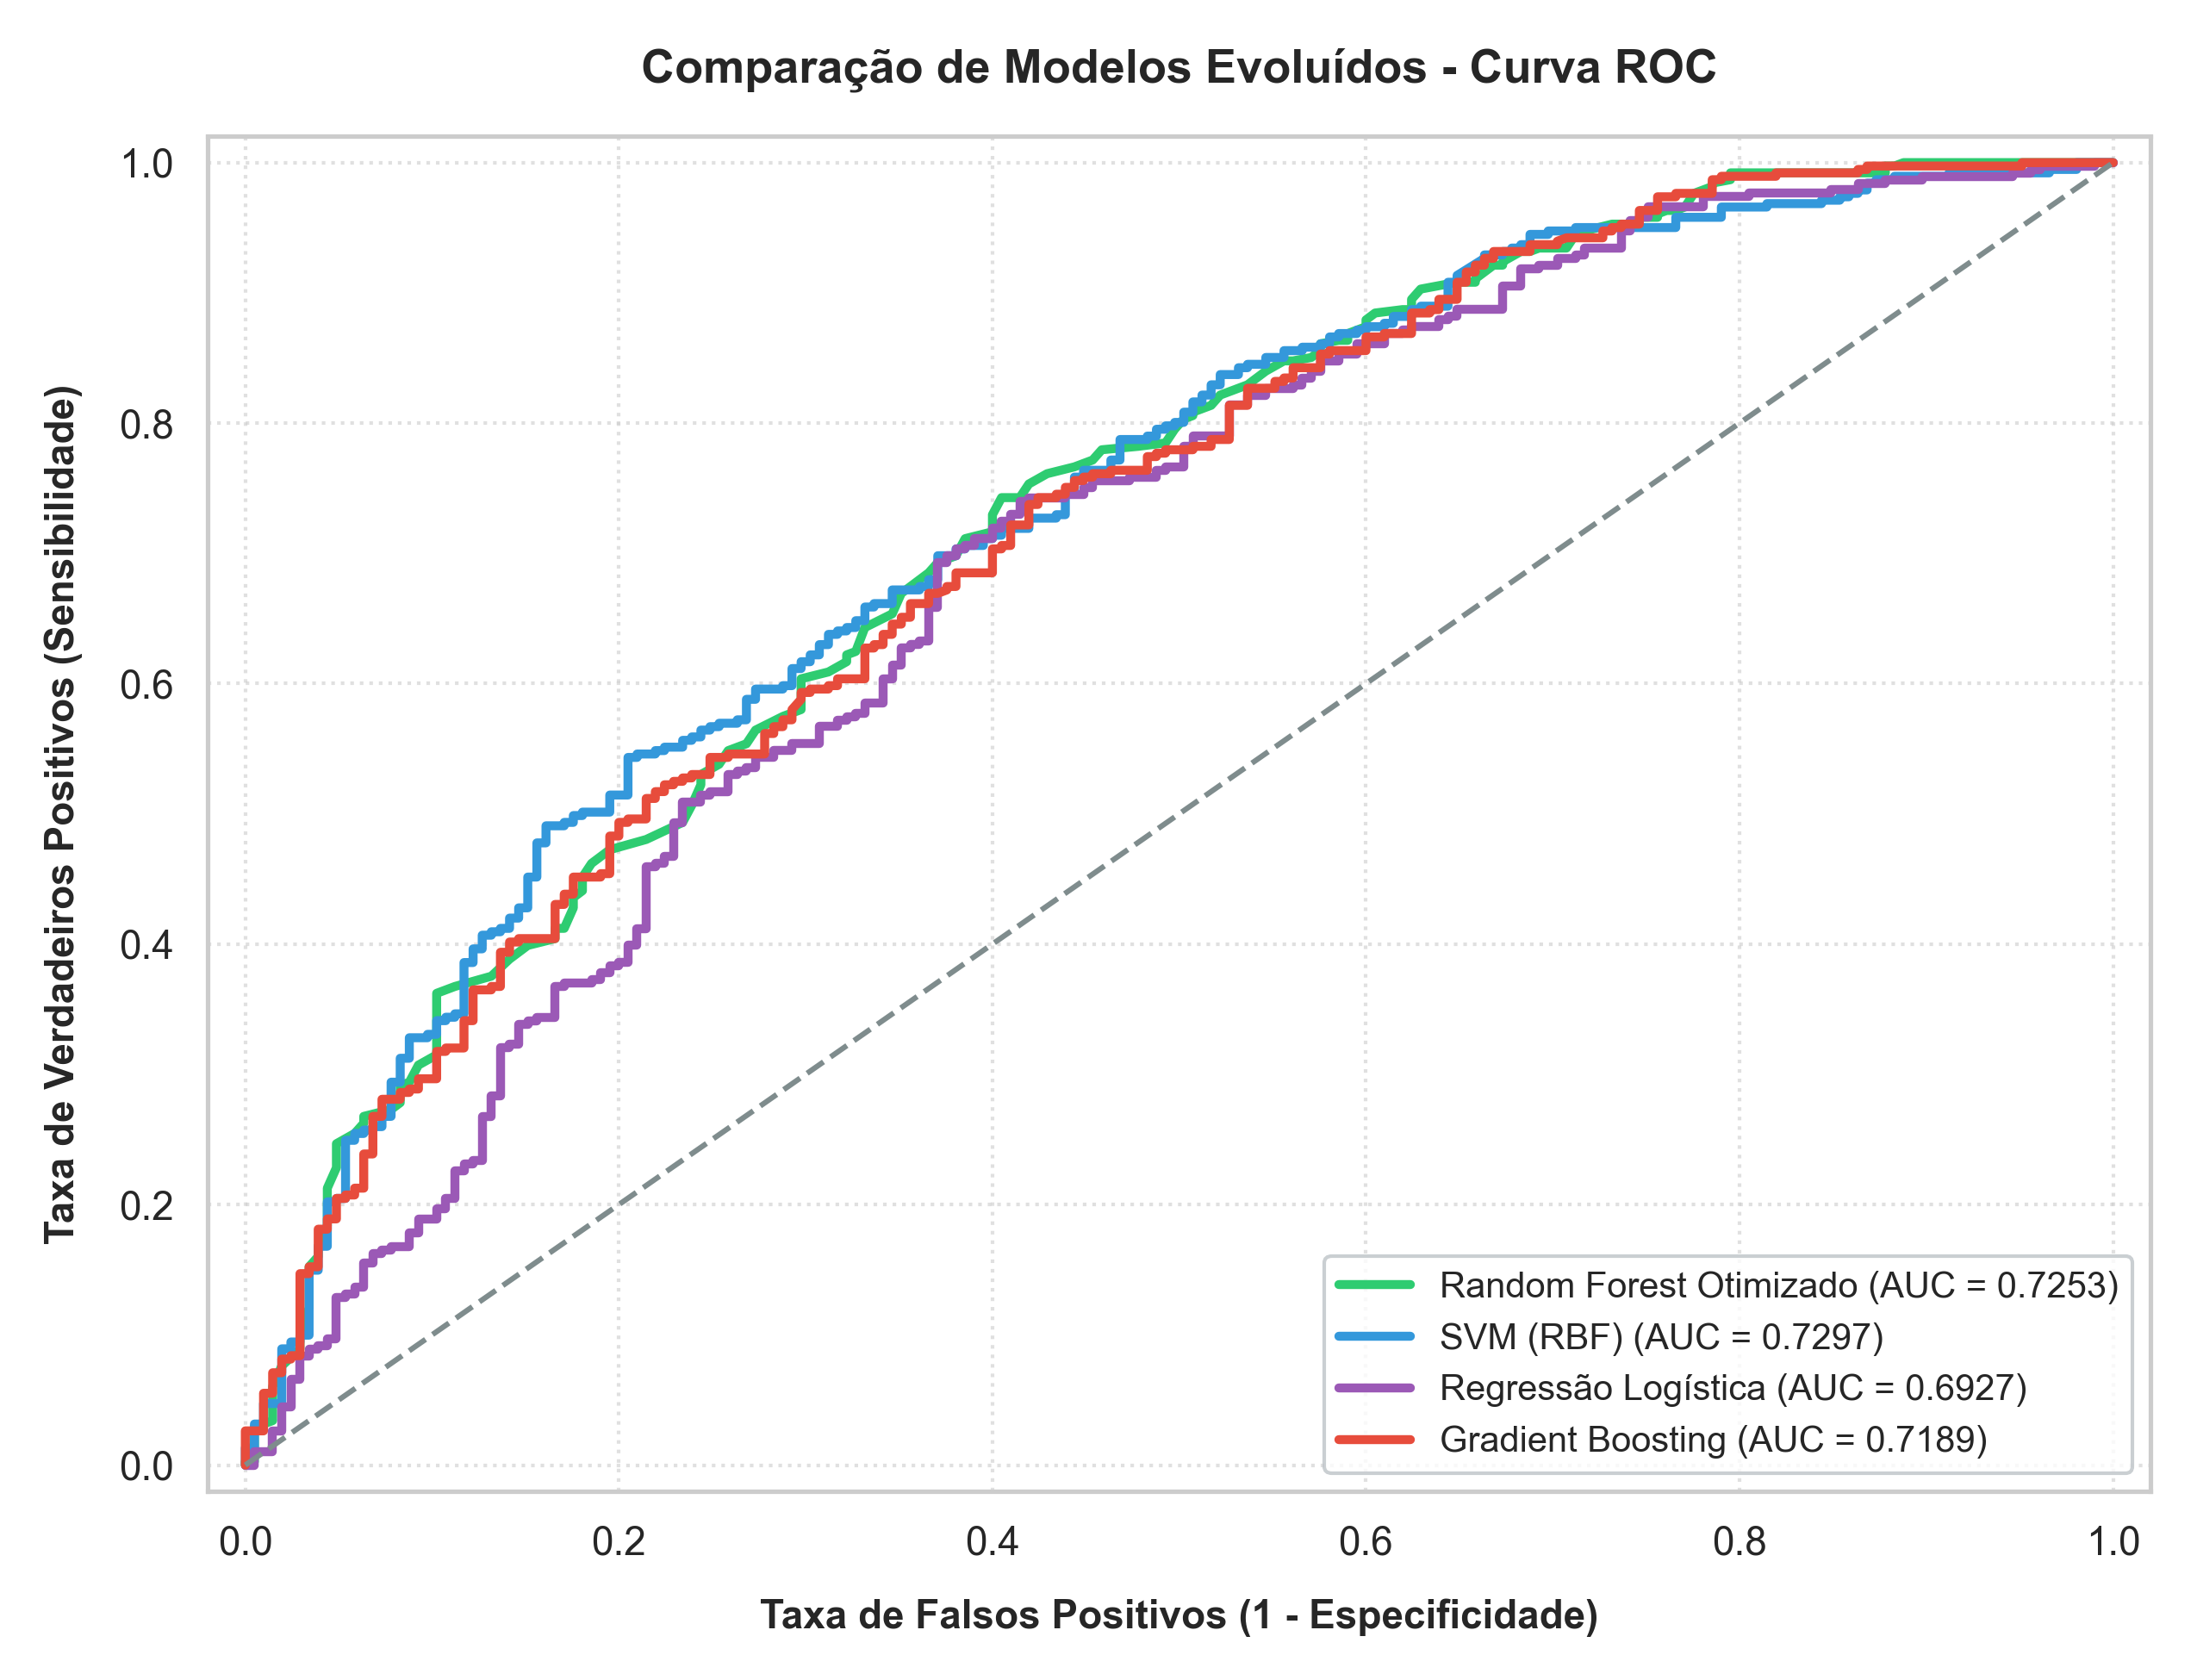
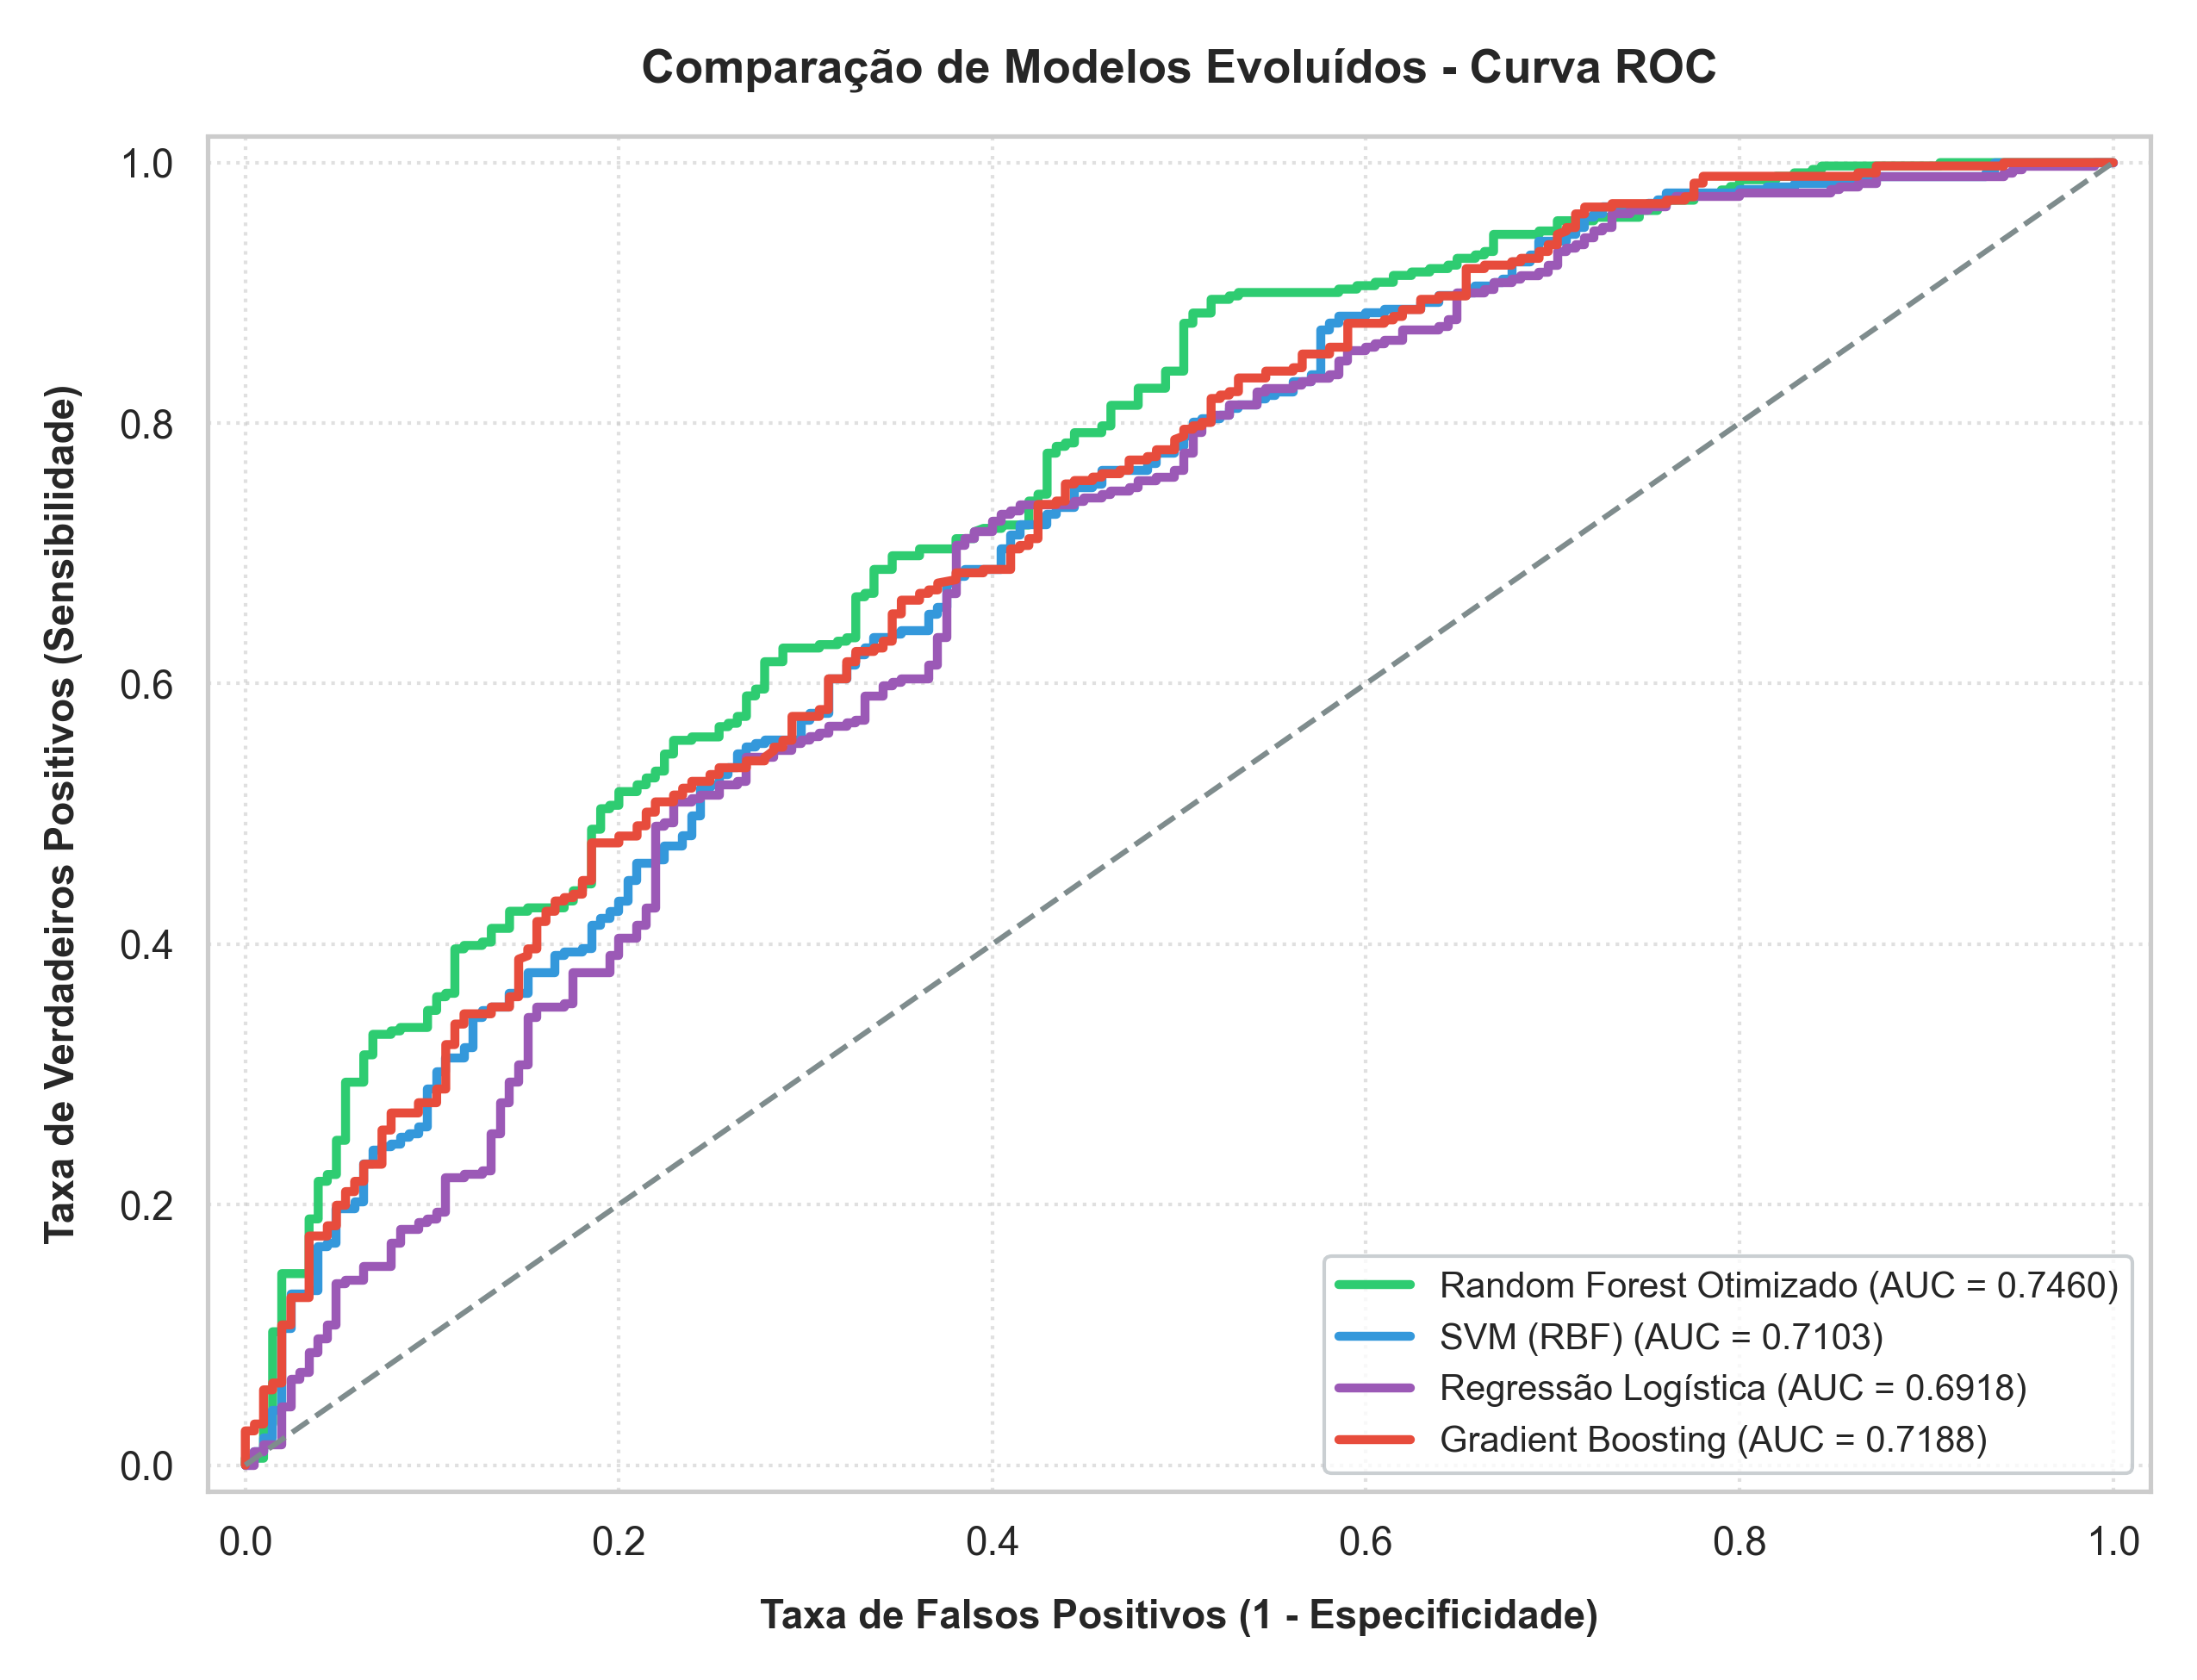
ajuste 1

diff --git a/modelo final usando comportamento.py b/modelo final usando comportamento.py
@@ -1,139 +1,3 @@
-
-# import os
-# import pandas as pd
-# import numpy as np
-# import matplotlib.pyplot as plt
-# import seaborn as sns
-# import joblib
-
-# from sklearn.model_selection import train_test_split
-# from sklearn.preprocessing import StandardScaler
-# from sklearn.metrics import (
-#     accuracy_score, classification_report, roc_curve, auc, 
-#     confusion_matrix, ConfusionMatrixDisplay, f1_score
-# )
-
-# from sklearn.ensemble import RandomForestClassifier, GradientBoostingClassifier
-# from sklearn.svm import SVC
-# from sklearn.linear_model import LogisticRegression
-
-# # =====================================================
-# # 1. CARREGAMENTO E ENGENHARIA DE ATRIBUTOS
-# # =====================================================
-# ARQUIVO_CSV = "dataset_radiomica_segmentado_ia_unico.csv"
-
-# print("🔄 Carregando dataset e aplicando Engenharia de Atributos...")
-# df = pd.read_csv(ARQUIVO_CSV)
-
-# # 🌟 ENGENHARIA DE ATRIBUTOS: Criando o indicador de "Calcificação Relativa ao Tamanho"
-# # Como o volume real foi dropado, estimamos a "Massa Geométrica da IA" usando a variação 
-# # absoluta de erro combinada ao volume do GT, ou criamos um proxy aproximado baseado nas texturas.
-# # Usaremos o Volume Consolidado antes de dropar a coluna para gerar o recurso inteligente da IA:
-# if 'Volume_Ideal_GT_Consolidado_mm3' in df.columns:
-#     # Evita divisão por zero adicionando um epsilon estável (1e-5)
-#     df['Indice_Calcificacao_Por_Tamanho'] = df['Proporcao_Calcificacao_IA'] / (df['Volume_Ideal_GT_Consolidado_mm3'] + 1e-5)
-# else:
-#     # Proxy alternativo caso use apenas dados puros de intensidade da IA
-#     df['Indice_Calcificacao_Por_Tamanho'] = df['Proporcao_Calcificacao_IA'] / (df['HU_Std_IA'] + 1e-5)
-
-# # 2. LIMPEZA DE COLUNAS (Evitando vazamento de dados do Ground Truth)
-# colunas_vazamento = [
-#     'ID_Nodulo', 'ID_Nodulo_Unico',
-#     'Volume_Ideal_GT_mm3', 'Volume_Ideal_GT_Consolidado_mm3',
-#     'Diferenca_Absoluta_Volume_mm3', 
-#     'Dice_Score', 'IoU_Score'
-# ]
-# colunas_remover = [col for col in colunas_vazamento if col in df.columns]
-
-# # Separando Atributos (X) e Alvo (y)
-# # Mantemos nossa nova coluna 'Indice_Calcificacao_Por_Tamanho' dentro de X!
-# X = df.drop(columns=colunas_remover + ['Malignidade_Real_Target', 'Classe'], errors='ignore')
-# y = df['Malignidade_Real_Target']
-
-# print(f"-> Total de instâncias únicas: {len(df)}")
-# print(f"-> Novo atributo adicionado: 'Indice_Calcificacao_Por_Tamanho'")
-# print(f"-> Total de atributos preditores atuais: {X.shape[1]}")
-
-# # Trata nulos usando a mediana
-# X = X.fillna(X.median())
-
-# # =====================================================
-# # 3. VALIDAÇÃO MATEMÁTICA DA SUA NOVA HIPÓTESE
-# # =====================================================
-# print("\n💡 AVALIAÇÃO DA SUA HIPÓTESE DA CALCIFICAÇÃO RELATIVA:")
-# mediana_novo_indicador = df['Indice_Calcificacao_Por_Tamanho'].median()
-
-# chance_benigno_geral = (df['Malignidade_Real_Target'] == 0).mean()
-# # Filtra os nódulos com alto índice de calcificação em relação ao tamanho
-# sub_calcificados_pequenos = df[df['Indice_Calcificacao_Por_Tamanho'] > mediana_novo_indicador]
-# chance_benigno_hipotese = (sub_calcificados_pequenos['Malignidade_Real_Target'] == 0).mean()
-
-# print(f"   - Chance de um nódulo qualquer do dataset ser BENIGNO: {chance_benigno_geral*100:.1f}%")
-# print(f"   - Se o nódulo tiver ALTA CALCIFICAÇÃO e MENOR TAMANHO, a chance de ser BENIGNO vai para: {chance_benigno_hipotese*100:.1f}%")
-
-# # Matriz de Correlação incluindo o novo recurso
-# colunas_analise = ['HU_Variance_IA', 'Proporcao_Calcificacao_IA', 'Indice_Calcificacao_Por_Tamanho', 'Haralick_Contraste']
-# colunas_presentes = [c for c in colunas_analise if c in X.columns]
-# matriz_corr = df[colunas_presentes + ['Malignidade_Real_Target']].corr(method='spearman')
-
-# plt.figure(figsize=(7, 5))
-# sns.heatmap(matriz_corr, annot=True, cmap='coolwarm', fmt=".2f", vmin=-1, vmax=1)
-# plt.title('Impacto do Novo Atributo Combinado no Target')
-# plt.tight_layout()
-# plt.show()
-
-# # =====================================================
-# # 4. DIVISÃO EM TREINO E TESTE + NORMALIZAÇÃO
-# # =====================================================
-# X_train, X_test, y_train, y_test = train_test_split(
-#     X, y, test_size=0.20, random_state=42, stratify=y
-# )
-
-# scaler = StandardScaler()
-# X_train_scaled = scaler.fit_transform(X_train)
-# X_test_scaled = scaler.transform(X_test)
-
-# # =====================================================
-# # 5. TREINAMENTO E VALIDAÇÃO DOS MODELOS RETREINADOS
-# # =====================================================
-# modelos = {
-#     "Random Forest": RandomForestClassifier(n_estimators=100, random_state=42),
-#     "SVM (RBF)": SVC(kernel="rbf", probability=True, random_state=42),
-#     "Regressão Logística": LogisticRegression(max_iter=1000, random_state=42),
-#     "Gradient Boosting": GradientBoostingClassifier(n_estimators=100, random_state=42)
-# }
-
-# resultados_metricas = {}
-# print("\n🚀 Retreinando modelos preditivos com o comportamento integrado...")
-# for nome, modelo in modelos.items():
-#     modelo.fit(X_train_scaled, y_train)
-#     y_pred = modelo.predict(X_test_scaled)
-#     y_prob = modelo.predict_proba(X_test_scaled)[:, 1]
-    
-#     acc = accuracy_score(y_test, y_pred)
-#     f1 = f1_score(y_test, y_pred)
-#     fpr, tpr, _ = roc_curve(y_test, y_prob)
-#     roc_auc = auc(fpr, tpr)
-    
-#     resultados_metricas[nome] = {"Acurácia": acc, "F1-Score": f1, "AUC": roc_auc}
-
-# # =====================================================
-# # 6. EXPORTANDO O MODELO ATUALIZADO PARA O PROFESSOR
-# # =====================================================
-# melhor_modelo_nome = "Random Forest"
-# print(f"\n💾 Salvando modelo robusto atualizado em disco...")
-# joblib.dump(modelos[melhor_modelo_nome], "modelo_malignidade_treinado.joblib")
-# print(" -> Arquivo 'modelo_malignidade_treinado.joblib' atualizado com sucesso!")
-
-# # =====================================================
-# # 7. TABELA COMPARATIVA FINAL
-# # =====================================================
-# df_metricas = pd.DataFrame(resultados_metricas).T
-# print("\n" + "="*60)
-# print("🏆 TABELA RESUMO DOS MODELOS (COM NOVO ATRIBUTO COMPORTAMENTAL)")
-# print("="*60)
-# print(df_metricas.to_string())
-# print("="*60)
 import os
 import pandas as pd
 import numpy as np
@@ -165,7 +29,7 @@ os.makedirs(PASTA_OUTPUT, exist_ok=True)
 print("🔄 Carregando dataset e aplicando Engenharia de Atributos Avançada...")
 df = pd.read_csv(ARQUIVO_CSV)
 
-# Atributo Composto 1: Calcificação proporcional ao tamanho (Sua hipótese)
+# Atributo Composto 1: Calcificação proporcional ao tamanho
 if 'Volume_Ideal_GT_Consolidado_mm3' in df.columns:
     df['Indice_Calcificacao_Por_Tamanho'] = df['Proporcao_Calcificacao_IA'] / (df['Volume_Ideal_GT_Consolidado_mm3'] + 1e-5)
 else:
@@ -203,6 +67,9 @@ X_train, X_test, y_train, y_test = train_test_split(
 scaler = StandardScaler()
 X_train_scaled = scaler.fit_transform(X_train)
 X_test_scaled = scaler.transform(X_test)
+
+# Salva também o scaler robusto para alinhar com o script de inferência do professor
+joblib.dump(scaler, "scaler_robusto.joblib")
 
 # =====================================================
 # 4. TUNING DE HIPERPARÂMETROS COM GRIDSEARCHCV
@@ -271,13 +138,12 @@ print(df_metricas.to_string())
 print("="*60)
 
 # =====================================================
-# 7. GERAÇÃO DA CURVA ROC EVOLUÍDA (NOVO BLOCO)
+# 7. GERAÇÃO DA CURVA ROC EVOLUÍDA
 # =====================================================
 print(f"\n🎨 Gerando gráfico comparativo das Curvas ROC...")
 sns.set_theme(style="whitegrid")
 plt.figure(figsize=(8.5, 6.5))
 
-# Define cores estéticas para cada modelo
 cores_modelos = {
     "Random Forest Otimizado": "#2ecc71",
     "SVM (RBF)": "#3498db",
@@ -289,9 +155,7 @@ for nome, (fpr, tpr, roc_auc) in Dicionario_Roc.items():
     plt.plot(fpr, tpr, lw=2.5, color=cores_modelos[nome],
              label=f'{nome} (AUC = {roc_auc:.4f})')
 
-# Linha de referência diagonal (classificador aleatório)
 plt.plot([0, 1], [0, 1], color='#7f8c8d', lw=1.5, linestyle='--')
-
 plt.xlim([-0.02, 1.02])
 plt.ylim([-0.02, 1.02])
 plt.xlabel('Taxa de Falsos Positivos (1 - Especificidade)', fontsize=11, fontweight='bold', labelpad=10)
@@ -299,11 +163,54 @@ plt.ylabel('Taxa de Verdadeiros Positivos (Sensibilidade)', fontsize=11, fontwei
 plt.title('Comparação de Modelos Evoluídos - Curva ROC', fontsize=13, weight='bold', pad=15)
 plt.legend(loc="lower right", frameon=True, facecolor='white', edgecolor='#bdc3c7', fontsize=10)
 plt.grid(True, linestyle=':', alpha=0.6)
-
 plt.tight_layout()
+
 caminho_roc = os.path.join(PASTA_OUTPUT, "curva_roc_modelos_evoluidos.png")
 plt.savefig(caminho_roc, dpi=300)
 plt.close()
+print(f" -> [OK] Curva ROC salva em: '{caminho_roc}'")
 
-print(f" -> [OK] Curva ROC salva com sucesso em: '{caminho_roc}'")
+# =====================================================
+# 8. 📊 MATRIZ DE CONFUSÃO DO MODELO CAMPEÃO (NOVO BLOCO)
+# =====================================================
+print(f"\n📊 Gerando Matriz de Confusão para o {melhor_modelo_nome}...")
+
+# Predição do conjunto de teste usando o modelo campeão
+modelo_campeao = modelos[melhor_modelo_nome]
+y_pred_campeao = modelo_campeao.predict(X_test_scaled)
+
+# Cálculo matemático da matriz
+cm = confusion_matrix(y_test, y_pred_campeao)
+
+# Configuração visual refinada com Seaborn
+plt.figure(figsize=(6, 5))
+sns.heatmap(
+    cm, 
+    annot=True, 
+    fmt='d', 
+    cmap='Greens', # Paleta combinando com a cor do Random Forest no gráfico ROC
+    linewidths=1.5, 
+    cbar=False,
+    annot_kws={"fontsize": 13, "weight": "bold"},
+    xticklabels=['Benigno (0)', 'Maligno (1)'],
+    yticklabels=['Benigno (0)', 'Maligno (1)']
+)
+
+plt.xlabel('Classe Predita pela IA', fontsize=11, fontweight='bold', labelpad=10)
+plt.ylabel('Classe Real (Gabarito Médico)', fontsize=11, fontweight='bold', labelpad=10)
+plt.title(f'Matriz de Confusão Final\n({melhor_modelo_nome})', fontsize=12, weight='bold', pad=15)
+plt.tight_layout()
+
+caminho_cm = os.path.join(PASTA_OUTPUT, "matriz_confusao_modelo_final.png")
+plt.savefig(caminho_cm, dpi=300)
+plt.close()
+
+print(f" -> [OK] Matriz de Confusão salva com sucesso em: '{caminho_cm}'")
+print("\n📋 Distribuição Numérica da Matriz (Conjunto de Teste):")
+print(f"    - Verdadeiros Benignos (VN): {cm[0][0]}")
+print(f"    - Falsos Malignos (FP):     {cm[0][1]}")
+print(f"    - Falsos Benignos (FN):     {cm[1][0]}")
+print(f"    - Verdadeiros Malignos (VP): {cm[1][1]}")
+print("="*60)
+print("🏁 Execução concluída! Todos os insumos visuais e arquivos binários estão prontos.")
 print("="*60)

diff --git a/testando modelo de ia.py b/testando modelo de ia.py
@@ -11,7 +11,7 @@ from prever_nodulos_IA import classificar_nodulos  # Importando o arquivo de inf
 # ==============================================================================
 ARQUIVO_METADADOS = "dados_segmentacao_nodulos_completo.csv"
 RAIZ_EXAMES = r"C:\dataset nodulos\lidc_idri\lidc_idri"
-LIMITE_AMOSTRAS = 100  # 🎯 Restrição de amostragem de nódulos
+LIMITE_AMOSTRAS = 150  # 🎯 Restrição de amostragem de nódulos
 
 def executar_validacao_em_lote():
     print("=" * 85)